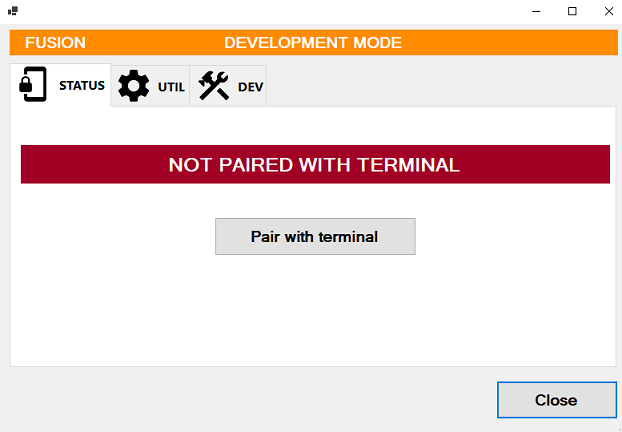
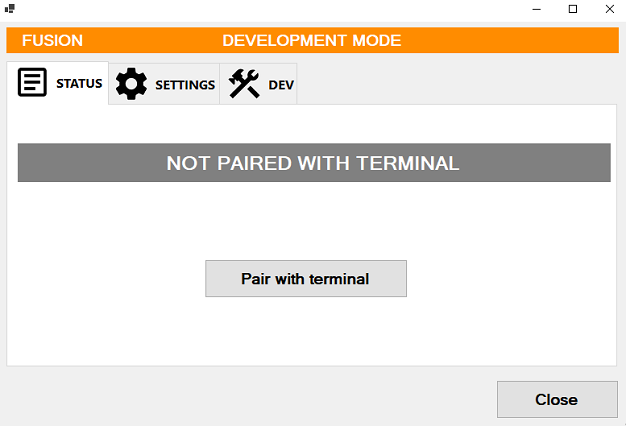
Updated FusionApp section.

diff --git a/docusaurus.config.js b/docusaurus.config.js
@@ -82,7 +82,7 @@ const config = {
         style: 'dark',
         links: [
           {
-            title: '2023-09-01',
+            title: '2023-09-07',
           },
           {
             title: 'Useful Links',

diff --git a/docs/api-reference/fusion-app.md b/docs/api-reference/fusion-app.md
@@ -20,7 +20,7 @@ In case of an error (timeout, system crash etc), the Sale System sends a HTTP GE
 The latest Fusion App installer can be downloaded from this [link](https://cloudposintegration.io/fusion/fusionapp/releases/FusionAppSetup_vStable.exe).
 :::
 
-- Run the installer and select the _Development_ install type
+- Run the installer and select the _Development_ install type. (For installation in _Production_ environment, select _Production_)
 
   ![](/img/fusion-app-install-1.png)
 
@@ -34,7 +34,7 @@ The latest Fusion App installer can be downloaded from this [link](https://cloud
 
   ![](/img/fusion-app-icon.png)
 
-- From version 3.0.0, the _Status_ tab displays the terminal pairing status.
+- From version 3.0.1, the _Status_ tab displays the terminal pairing status.
   - When the Fusion App is not yet paired with a terminal, you can pair it with a terminal by clicking on the _Pair with terminal_ button.  Doing this will launch the pairing dialog, which will ask you to [scan a pairing QR Code using the DataMesh terminal](/docs/appendix#qr-pos-pairing).
 
     ![](/img/fusion-app-settings-not-paired.png)
@@ -55,7 +55,7 @@ The latest Fusion App installer can be downloaded from this [link](https://cloud
 
 DataMesh may ask for log files to diagnose issues during development. 
 
-  ![](/img/fusion-app-util.png)
+  ![](/img/fusion-app-settings.png)
 
 ### Send your first payment request
 
@@ -84,7 +84,7 @@ To get the Fusion App related status and details, the Sale System needs to use:
 Sample return value:
 ```json
 {
-    "Version": "3.0.0.0", //Formatted version number of the Fusion App
+    "Version": "3.0.1.0", //Formatted version number of the Fusion App
     "TerminalPaired": false, //True if a terminal has been paired, false otherwise
     "Status": "Ready" //Status of the Fusion App
 }
